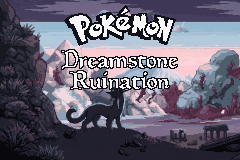
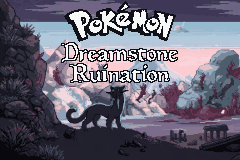
Title screen: raise the subtitle clear of Chien-Pao's head
Measured on the composited frame: Chien-Pao's ear tips reach y~75-76 and the
head crown sits around y~86. At the previous logo_y=5 / gap=4 the subtitle
spanned y49..89, so its lower edge cut into the ears.

The subtitle cannot simply move: the logo is 41px tall, so the text's start is
pinned by logo_y + logo height + gap. Raising it means raising the logo and
tightening the gap. logo_y=1 / gap=1 puts the text at y42..82 -- 7px up, clear
of the crown, still grazing the ear tips. That is the maximum raise available
while the logo stays 112px wide; going further needs a narrower logo.

Both values are now the tool defaults rather than flags, so re-running
build_title.py reproduces this framing instead of reverting to y49..89.

Contracts re-verified: 600 undeduplicated tiles, 512-byte palette. 66 colours.
make modern EXIT=0.

Changed region(s): [[0.2333, 0.0, 0.7583, 0.5625]]

diff --git a/tools/title_screen/build_title.py b/tools/title_screen/build_title.py
@@ -65,7 +65,11 @@ OUT = HERE.parents[1] / "codebase" / "graphics" / "title_screen" / "dr_title.png
 
 SCREEN = (240, 160)
 LOGO_W = 112
-LOGO_Y = 5
+LOGO_Y = 1          # chosen: raises the subtitle clear of Chien-Pao's head crown
+GAP = 1              # logo->subtitle gap; with LOGO_Y=1 the text lands at y42..82
+                     # (ear tips reach y~75-76, crown ~y86; 7px raised from the
+                     #  original y49..89, which cut into the ears. This is the
+                     #  maximum raise possible while the logo stays 112px wide.)
 FILL = (248, 248, 248)
 INK = (16, 16, 24)
 SS = 6                       # supersample factor for text rendering
@@ -148,16 +152,18 @@ def main():
     ap.add_argument("--byline", default=None,
                     help='optional bottom line, e.g. "A PREQUEL BY MURGLEIS"')
     ap.add_argument("--byline-pt", type=int, default=13)
+    ap.add_argument("--logo-y", type=int, default=LOGO_Y)
+    ap.add_argument("--gap", type=int, default=GAP)
     a = ap.parse_args()
 
     canvas = np.array(build_background(a.colors)).copy()
     logo, opaque = build_logo()
     lx = (SCREEN[0] - LOGO_W) // 2
-    reg = canvas[LOGO_Y:LOGO_Y + logo.shape[0], lx:lx + LOGO_W]
+    reg = canvas[a.logo_y:a.logo_y + logo.shape[0], lx:lx + LOGO_W]
     reg[opaque] = logo[opaque]
 
     l1, l2 = hard_text("Dreamstone", a.pt), hard_text("Ruination", a.pt)
-    y = LOGO_Y + logo.shape[0] + 4
+    y = a.logo_y + logo.shape[0] + a.gap
     stamp(canvas, l1, (SCREEN[0] - l1.shape[1]) // 2, y)
     y2 = y + l1.shape[0] + 2
     stamp(canvas, l2, (SCREEN[0] - l2.shape[1]) // 2, y2)
@@ -182,7 +188,8 @@ def main():
     print(f"wrote {OUT}")
     print(f"  mode={img.mode} size={img.size} palette entries={len(img.getpalette())//3}")
     print(f"  distinct colours used: {n}")
-    print(f"  logo {LOGO_W}x{logo.shape[0]} at y={LOGO_Y}; subtitle {a.pt}pt ends y={bottom}")
+    print(f"  logo {LOGO_W}x{logo.shape[0]} at y={a.logo_y}, gap {a.gap}; "
+          f"subtitle {a.pt}pt spans y={y-1}..{bottom}")
 
 
 if __name__ == "__main__":
